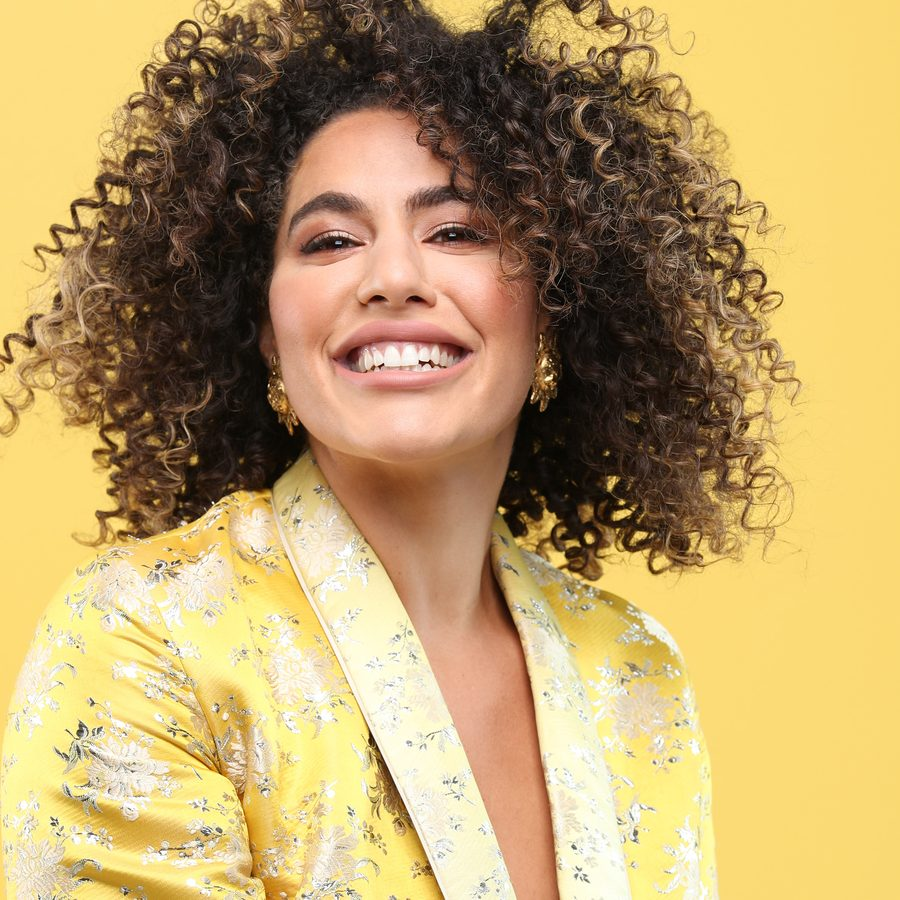
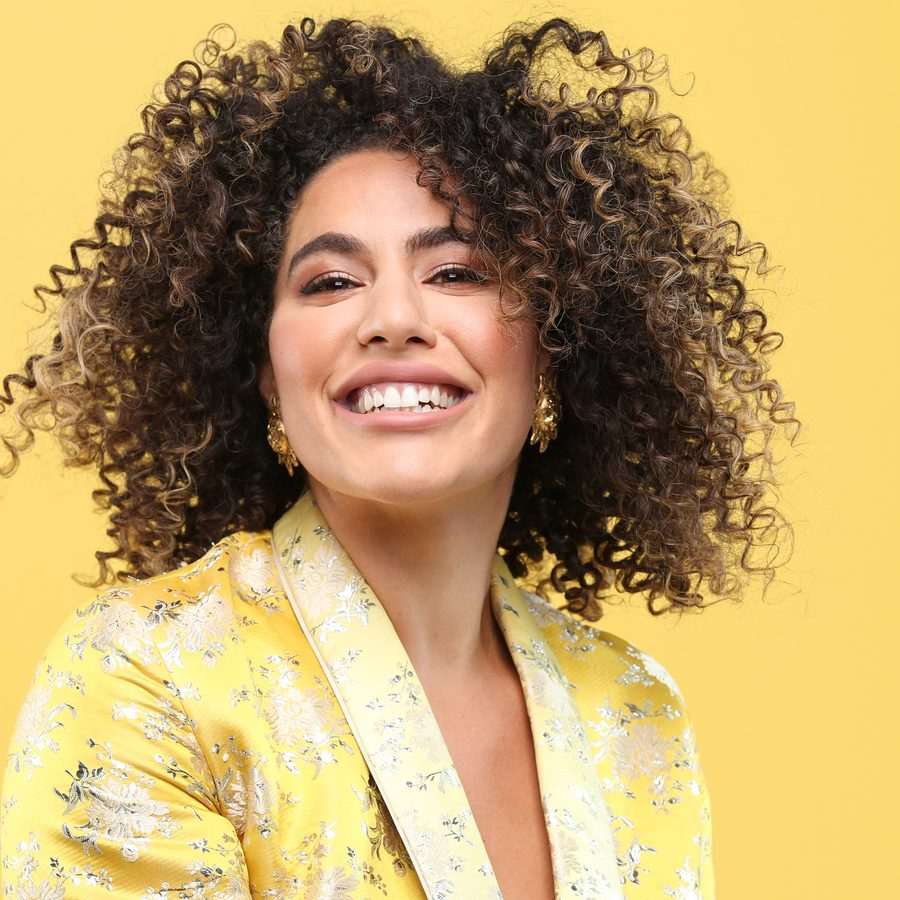
Portfolio: raise Matrix tile crop so the hair isn't clipped
Crop window moved to the top of the frame (y=0), same zoom; ?v=3.

diff --git a/portfolio.html b/portfolio.html
@@ -132,7 +132,7 @@
         </article>
         <article class="lx-plate">
           <div class="lx-plate-img lx-plate-img-small">
-            <img src="assets/img/b-matrix-6.jpg?v=2" srcset="assets/img/b-matrix-6.webp?v=2" alt="Editorial portrait in a yellow floral jacket on a yellow background" loading="lazy">
+            <img src="assets/img/b-matrix-6.jpg?v=3" srcset="assets/img/b-matrix-6.webp?v=3" alt="Editorial portrait in a yellow floral jacket on a yellow background" loading="lazy">
           </div>
           <div class="lx-plate-meta">
             <h3 class="lx-plate-name">Matrix</h3>
